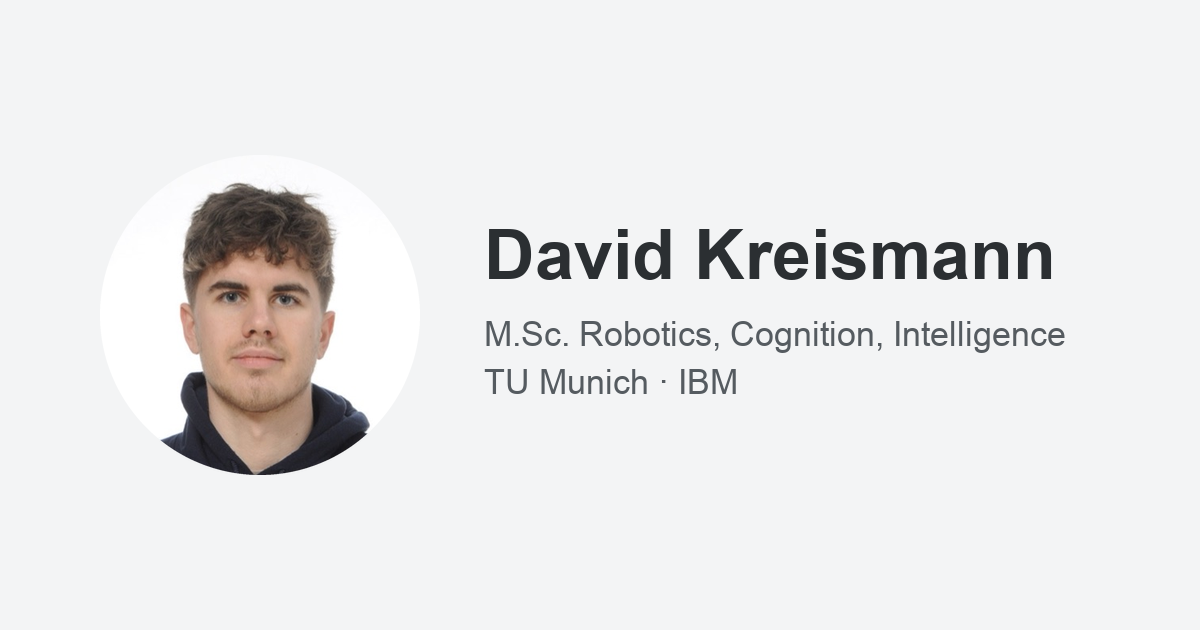
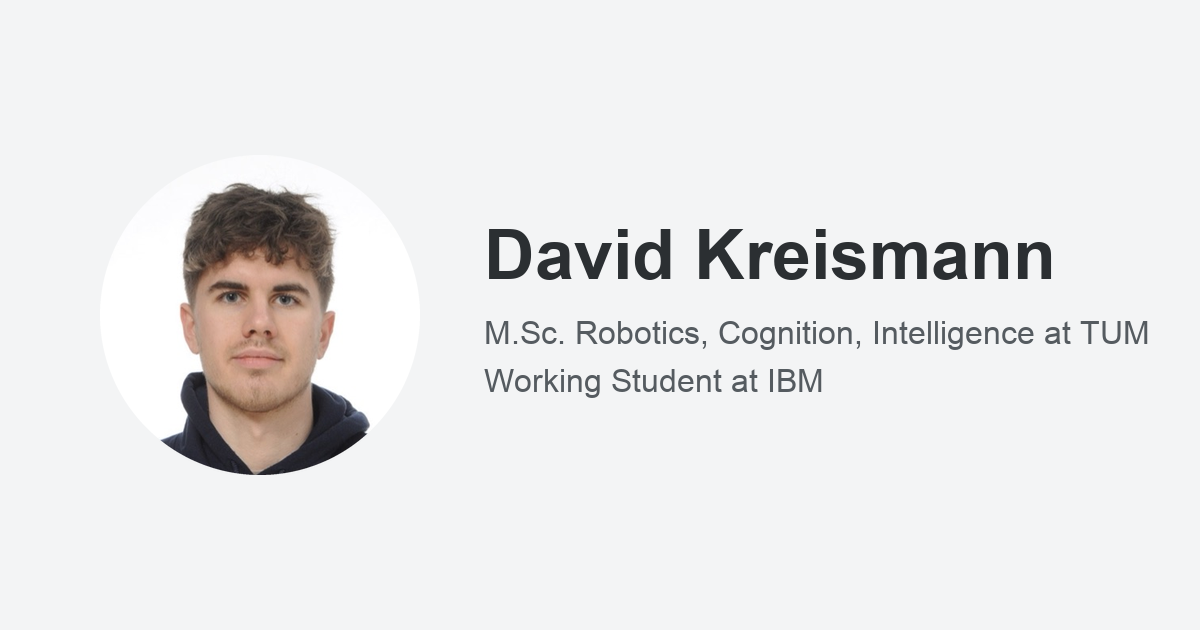
Align CV text sizes with other pages, preview without dots, comma-separated stacks

Changed region(s): [[0.4008, 0.5127, 0.9558, 0.6333]]

diff --git a/_sass/layout/_cv.scss b/_sass/layout/_cv.scss
@@ -48,8 +48,6 @@ $role-gap    : 1em;
 }
 
 .cv-entry__date {
-  color: var(--global-text-color-light);
-  font-size: $type-size-6;
   white-space: nowrap;
 }
 
@@ -59,8 +57,6 @@ $role-gap    : 1em;
 
 .cv-entry__location {
   margin-left: auto;
-  color: var(--global-text-color-light);
-  font-size: $type-size-6;
   white-space: nowrap;
 }
 
@@ -88,7 +84,7 @@ $role-gap    : 1em;
 }
 
 .cv-role__title {
-  font-weight: 600;
+  font-weight: bold;
 }
 
 .cv-role__text {
@@ -96,7 +92,7 @@ $role-gap    : 1em;
 }
 
 .cv-entry__sub {
-  line-height: 1.4;
+  line-height: 1.5;
 }
 
 /* roles have no organization line: float the location so the description starts right below the title */

diff --git a/_pages/de/projects.html b/_pages/de/projects.html
@@ -18,7 +18,7 @@ translation: /projects/
   </div>
   <p class="project-card__text">{{ post.excerpt_de | default: post.excerpt | strip_html }}</p>
   <div class="project-card__footer">
-    <span class="project-card__stack">{{ post.stack | join: " · " }}</span>
+    <span class="project-card__stack">{{ post.stack | join: ", " }}</span>
     {% if post.github %}<a class="project-card__link" href="{{ post.github }}"><i class="fab fa-github" aria-hidden="true"></i> Code</a>{% endif %}
   </div>
 </div>

diff --git a/_includes/project-meta.html b/_includes/project-meta.html
@@ -6,7 +6,7 @@
 {% endif %}
 {% if project %}
 <div class="project-card__footer project-meta">
-  <span class="project-card__stack">{{ project.stack_full | default: project.stack | join: " · " }}</span>
+  <span class="project-card__stack">{{ project.stack_full | default: project.stack | join: ", " }}</span>
   {% if project.github %}<a class="project-card__link" href="{{ project.github }}"><i class="fab fa-github" aria-hidden="true"></i> Code</a>{% endif %}
 </div>
 {% endif %}

diff --git a/_pages/projects.html b/_pages/projects.html
@@ -19,7 +19,7 @@ redirect_from:
   </div>
   <p class="project-card__text">{{ post.excerpt | strip_html }}</p>
   <div class="project-card__footer">
-    <span class="project-card__stack">{{ post.stack | join: " · " }}</span>
+    <span class="project-card__stack">{{ post.stack | join: ", " }}</span>
     {% if post.github %}<a class="project-card__link" href="{{ post.github }}"><i class="fab fa-github" aria-hidden="true"></i> Code</a>{% endif %}
   </div>
 </div>
